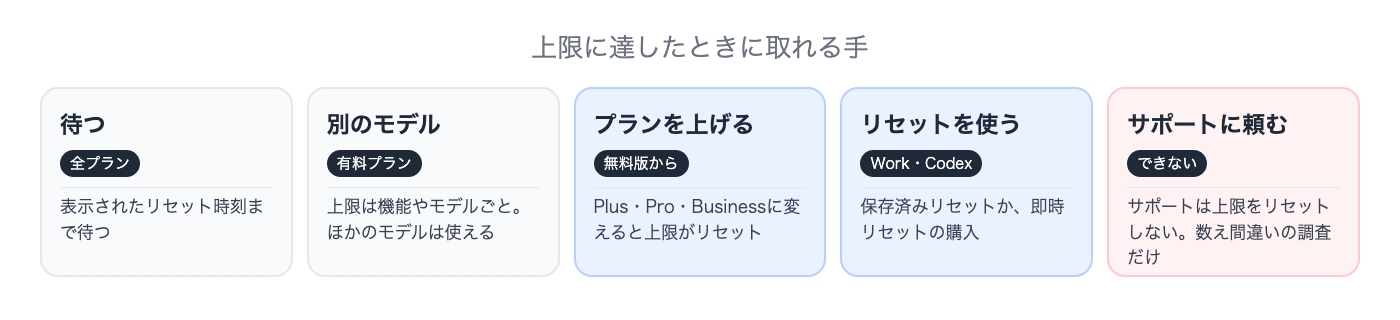
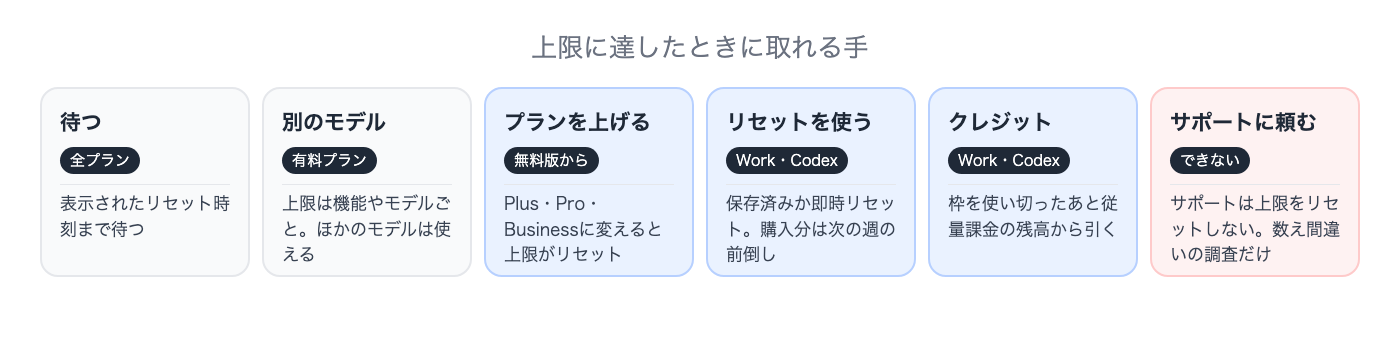
chatgpt-limit-reached: 添削5点と軽微3件を反映／chatgpt-work-plans の5時間枠の説明を公式に合わせてリンク

diff --git a/media/posts/chatgpt-work-plans.md b/media/posts/chatgpt-work-plans.md
@@ -60,7 +60,7 @@ Chatは質問に答える画面です。Workは目標を渡すと、アプリや
 
 ## 上限の決まり方
 
-使える量は回数で決まりません。5時間ごとにリセットされる枠と、週ごとの枠の2つが重なります。プランに含まれる使用量はこの枠で測られます。
+使える量は回数で決まりません。前の枠が終わったあと最初のメッセージから始まる5時間の枠と、週ごとの枠の2つが重なります。上限に当たったときの戻り方は[ChatGPTで上限に達したときの記事](/media/chatgpt-limit-reached/)にまとめました。プランに含まれる使用量はこの枠で測られます。
 
 <figure class="post-figure"><img src="/media/images/chatgpt-work-plans/02_fig_limits.png" alt="ChatGPT Workの上限の図。5時間ごとの枠と週ごとの枠が重なること、入力の長さはGoとPlusが約320ページ分でProが約680ページ分、PlusではWorkとCodexでGPT-6 Astraを使えること" loading="lazy"><figcaption>2つの枠と、一度に読ませられる長さ</figcaption></figure>
 
@@ -122,7 +122,7 @@ Chatは回答を返す画面で、Workは作業を進めて成果物を作る画
 
 ### ChatGPT Workの上限はどうなっていますか？
 
-5時間ごとにリセットされる枠と、週ごとの枠の2つで管理されます。回数での表記はありません。BusinessとEnterpriseは、追加のクレジットを購入して枠を広げられます。
+前の枠が終わったあと最初のメッセージから始まる5時間の枠と、週ごとの枠の2つで管理されます。回数での表記はありません。BusinessとEnterpriseは、追加のクレジットを購入して枠を広げられます。
 
 ### 一度にどれくらいの長さを読ませられますか？
 
